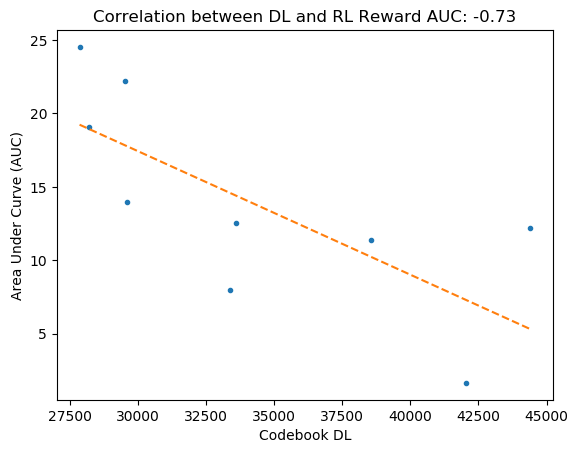
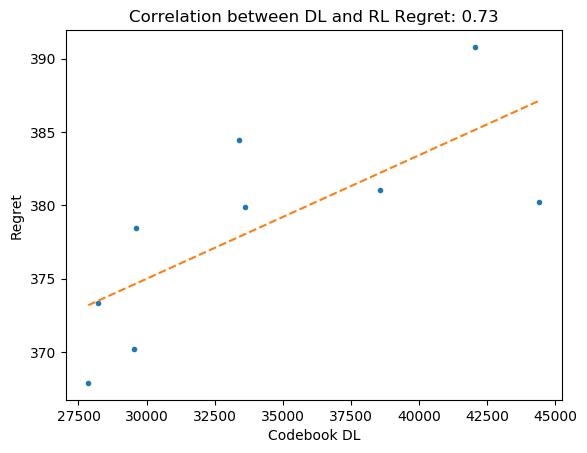
regret

diff --git a/calculate_codebook_performance.py b/calculate_codebook_performance.py
@@ -9,6 +9,10 @@ def calculate_auc(curve):
     epochs = np.arange(len(curve))
     return sk_metrics.auc(epochs, curve)
 
+def calculate_regret(curve):
+    upper_bound = 0.7849
+    return np.sum(upper_bound - curve)
+
 def smooth(list_of_list_of_scalars, weight: float):  # Weight between 0 and 1
     list_of_smoothed = []
     for scalars in list_of_list_of_scalars:
@@ -142,7 +146,7 @@ if __name__ == "__main__":
 
     # building a pandas dataframe
     pd_index = []
-    pd_dict = {'codebook_dl': [], 'num_symbols': [], 'train_rl_auc': [], 'test_rl_auc': []}
+    pd_dict = {'codebook_dl': [], 'num_symbols': [], 'train_rl_auc': [], 'test_rl_auc': [], 'test_rl_regret': []}
     if not has_rl:
         pd_dict.pop('train_rl_auc')
         pd_dict.pop('test_rl_auc')
@@ -177,6 +181,7 @@ if __name__ == "__main__":
         if has_rl:
             pd_dict['train_rl_auc'].append(calculate_auc(metrics[name]['train']))
             pd_dict['test_rl_auc'].append(calculate_auc(metrics[name]['test']))
+            pd_dict['test_rl_regret'].append(calculate_regret(metrics[name]['test']))
     df = pd.DataFrame(data=pd_dict, index=pd_index)
     correlation_method = 'pearson'
     #printing correlation of codebook description length and other metrics

diff --git a/plotting.py b/plotting.py
@@ -16,7 +16,8 @@ correlation_method = 'pearson'
 
 # DL against RL
 x1 = df['codebook_dl']
-y1 = df['test_rl_auc']
+#y1 = df['test_rl_auc']
+y1 = df['test_rl_regret']
 correlation1 = x1.corr(y1, method=correlation_method)
 print(f'Correlation between DL and RL: {correlation1}')
 
@@ -25,8 +26,8 @@ plt.figure()
 plt.plot(x1, y1, '.')
 plt.plot(x1, b1 + m1 * x1, '--')
 plt.xlabel('Codebook DL')
-plt.ylabel('Area Under Curve (AUC)')
-plt.title(f'Correlation between DL and RL Reward AUC: {correlation1:.2f}')
+plt.ylabel('Regret')
+plt.title(f'Correlation between DL and RL Regret: {correlation1:.2f}')
 #plt.show()
 plt.savefig('figures/dl_rl_correlation.png', bbox_inches="tight")
 plt.savefig('figures/dl_rl_correlation.pdf', bbox_inches="tight")
